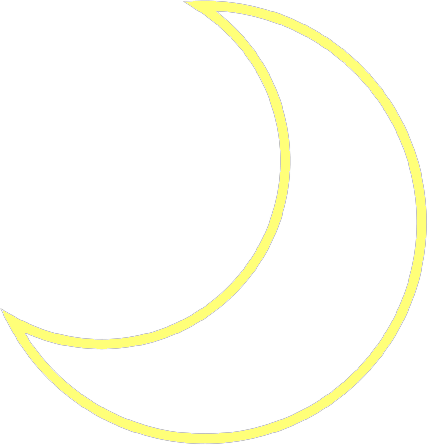
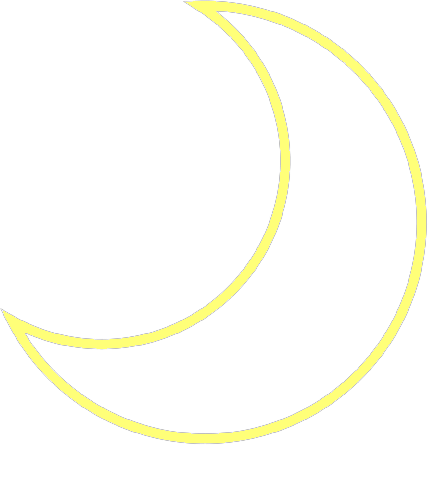
x

Changed region(s): [[0.0, 0.0, 1.0, 1.0], [0.4252, 0.0, 0.486, 0.0292]]

diff --git a/assets/css/style.css b/assets/css/style.css
@@ -117,27 +117,27 @@ ul li a:hover {
     float: left;
     height: 30px;
     margin-right: 10px;
-    margin-top: 13px;
     width: 30px;
 }
 
 #about .mini_logo {
     align-items: center;
-    display: flow-root;
+    display: flex;
     justify-content: left;
 }
 
 #about .cloud_about {
     align-items: center;
     display: flex;
+    flex-direction: column;
     justify-content: center;
 }
 
 .cloud_about img {
+    bottom: 0;
     max-height: 45%;
     max-width: 45%;
     position: absolute;
-    top: 55%;
     z-index: 100;
 }
 
@@ -170,7 +170,6 @@ ul li a:hover {
 }
 
 #schools .schoolbox {
-
     align-items: center;
     background-image: linear-gradient(to right top, #91769c, #957ba5, #9980ad, #9c86b6, #9f8bbf, #9f90c5, #9e94cc, #9d99d2, #999fd7, #96a4db, #92aadf, #8fafe2);
     border-radius: 100px;
@@ -186,13 +185,13 @@ ul li a:hover {
     justify-content: space-around;
     margin-bottom: 25px;
     overflow-x: hidden;
-    transform: translateX(-400%);
+    transform: translateX(400%);
     transition: transform 1.5s ease;
     z-index: 10;
 }
 
 #schools .container:nth-of-type(even) {
-    transform: translateX(400%);
+    transform: translateX(-400%);
 }
 
 #schools .container.show{
@@ -214,7 +213,7 @@ ul li a:hover {
     margin-left: 30px;
     margin-right: 30px;
     margin-top: 20px;
-    max-height: 170px;
+    height: 170px;
 }
 
 #constellation {
@@ -294,6 +293,7 @@ ul li a:hover {
     box-shadow: inset -25px 25px 51px #c8c0cb,
                 inset 25px -25px 51px #f1f1f1;
     display: flex;
+    flex-direction: column;
     justify-content: space-between;
     min-height: 80vh;
     padding: 50px;
@@ -432,7 +432,7 @@ footer .cvita a{
     }
 
     section {
-        padding: 30px;
+        padding: 5%;
     }
 
     h2 {
@@ -443,7 +443,8 @@ footer .cvita a{
     
     p {
         font-size: 0.8em;
-        padding: 10px;
+        padding: 5%;
+        text-decoration: none;
     }
 
     #name img {
@@ -453,5 +454,23 @@ footer .cvita a{
     #text {
         padding: 10px;
     }
-    
+
+    #schools p {
+        font-size: 0.6em;
+    }
+
+    #schools .schoolbox {
+        padding: 5px;
+        position: relative;
+        right: 0;
+    }
+
+    #art_ap, #science_co {
+        height: 100px;
+        margin-bottom: 10px;
+        margin-left: 15px;
+        margin-right: 15px;
+        margin-top: 10px;
+    }
+
 }

diff --git a/index.html b/index.html
@@ -38,12 +38,12 @@
             
         </div>
 
-        <p>
-            Etudiante en Sciences Cognitive en recherche d'un stage pour la dernière année de Licence. Mon but est d'approfondir mon début de connaissances en développement par la pratique. C'est pouquoi, même si ce stage est basé sur un nombre d'heures défini, je souhaiterai pouvoir en faire un maximum.<br><br>
-            Je me passione pour les domaines où je peux avoir une polyvalence dans mes compétences, comme : le dessin, la guitare, les jeux vidéos, les casses-têtes... <br><br>
-        </p>
-
         <div class="cloud_about" >
+            <p>
+                Etudiante en Sciences Cognitive en recherche d'un stage pour la dernière année de Licence. Mon but est d'approfondir mon début de connaissances en développement par la pratique. C'est pouquoi, même si ce stage est basé sur un nombre d'heures défini, je souhaiterai pouvoir en faire un maximum.<br><br>
+                Je me passione pour les domaines où je peux avoir une polyvalence dans mes compétences, comme : le dessin, la guitare, les jeux vidéos, les casses-têtes... <br><br>
+            </p>
+
             <img src="assets/img/about/nuage_1.png" id="nuage_1">
             <img src="assets/img/about/moon.png" id="moon">
             <img src="assets/img/about/nuage_2.png" id="nuage_2">
